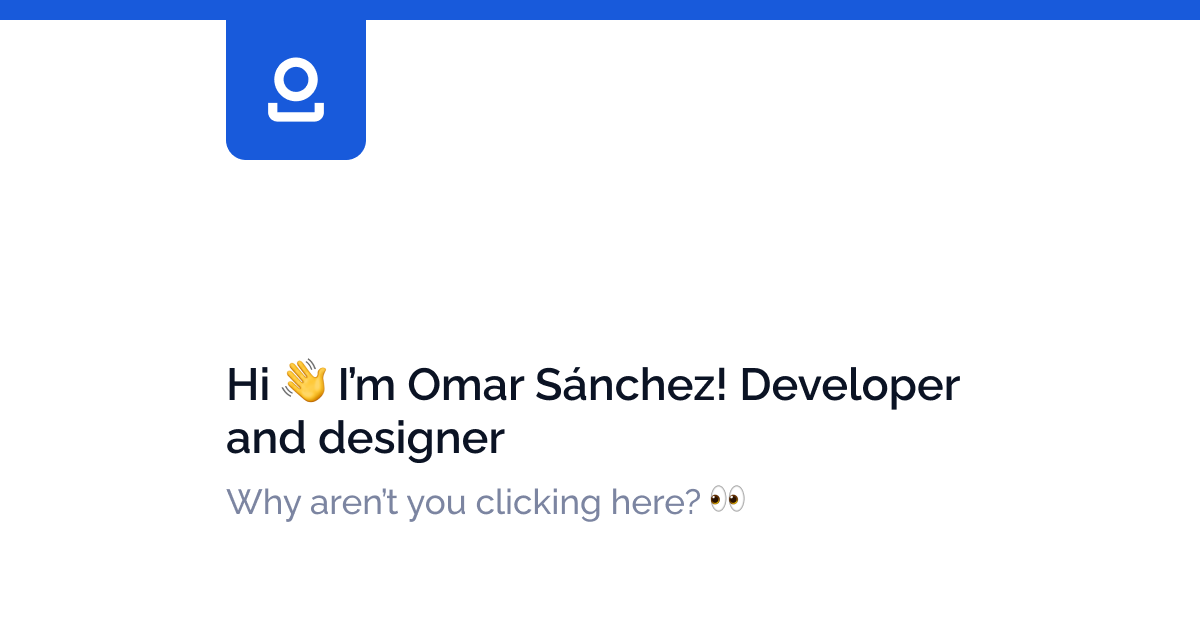
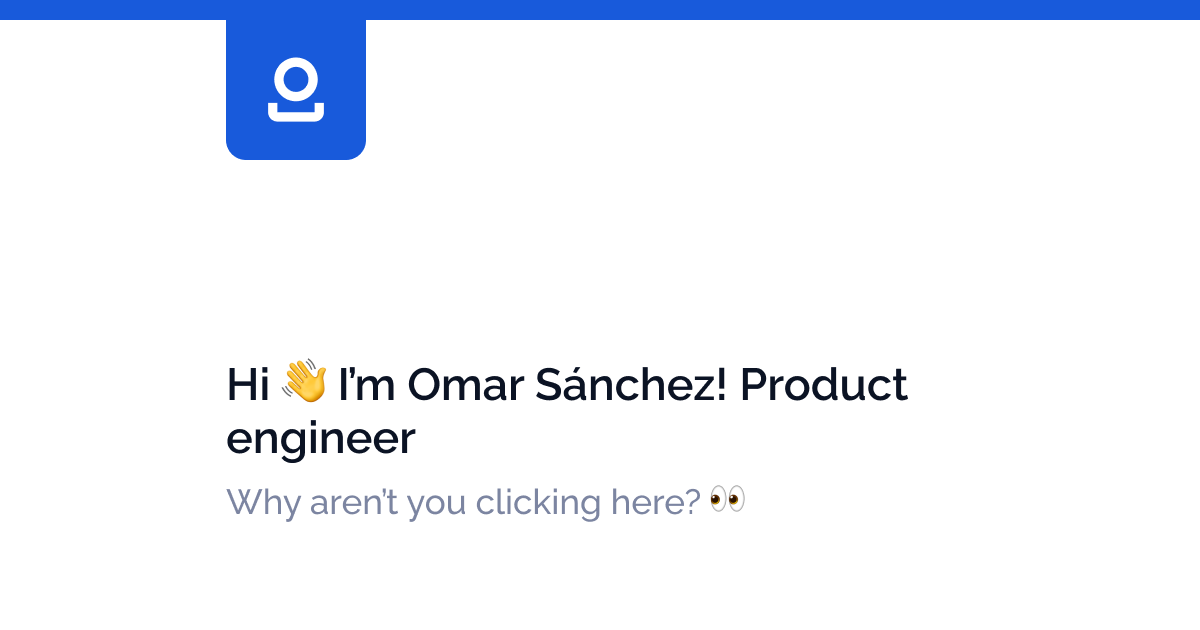
feat: use Product Engineer in title and meta
Replace OG image to match updated site copy

Changed region(s): [[0.185, 0.6635, 0.4317, 0.754], [0.6167, 0.573, 0.8017, 0.6635]]

diff --git a/index.html b/index.html
@@ -18,7 +18,7 @@
     <meta name="theme-color" content="#185ADB" />
     <meta
       name="description"
-      content="Omar Sánchez is a developer and designer based in Mexico. Passionate about building great products and amazing experiences."
+      content="Omar Sánchez is a product engineer based in Mexico. Passionate about building great products and amazing experiences."
     />
     <meta
       name="keywords"
@@ -28,7 +28,7 @@
     <meta name="og:title" content="Omar Sánchez" />
     <meta
       name="og:description"
-      content="I'm a developer and designer. Passionate about building great products and amazing experiences."
+      content="I'm a product engineer. Passionate about building great products and amazing experiences."
     />
     <meta name="og:image" content="/og-image.png" />
 
@@ -40,7 +40,7 @@
       rel="stylesheet"
     />
 
-    <title>Omar Sánchez - Developer and Designer</title>
+    <title>Omar Sánchez - Product Engineer</title>
   </head>
   <body>
     <div id="root"></div>
